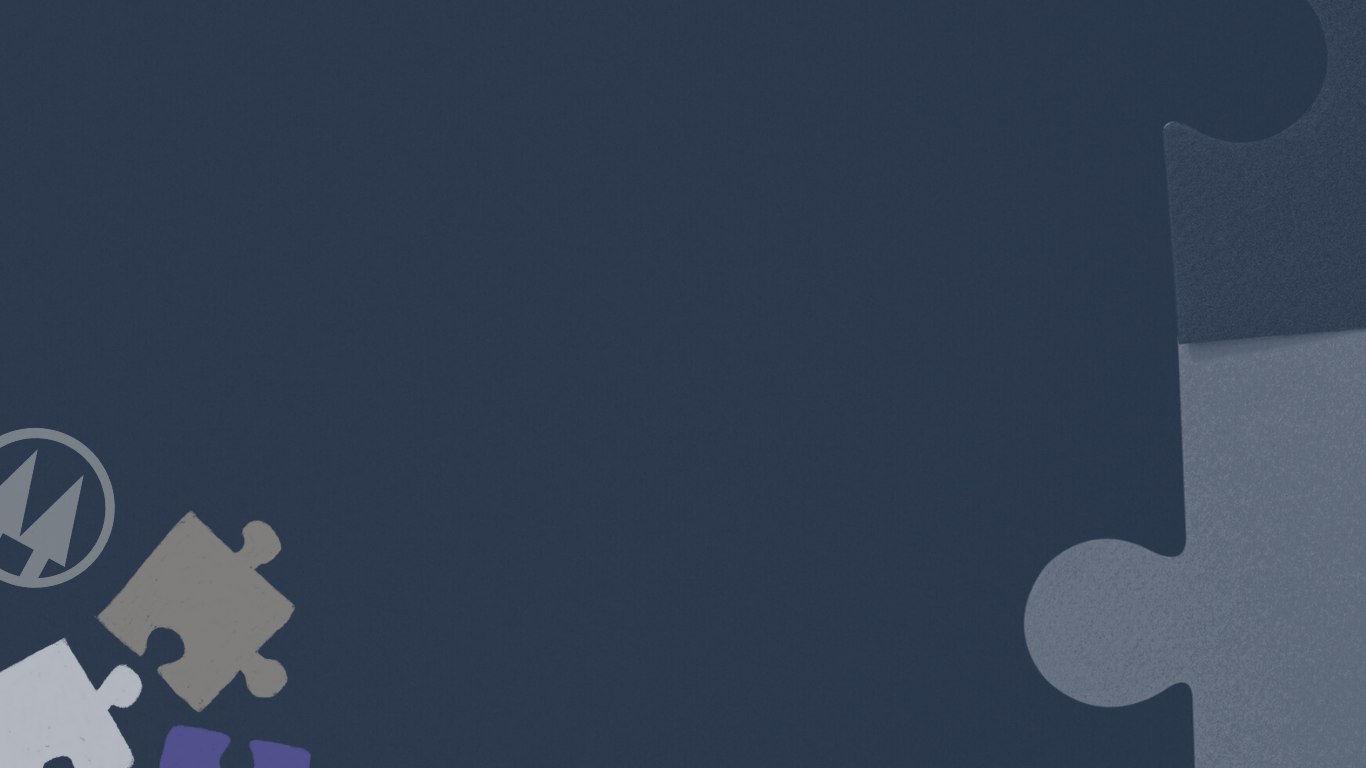
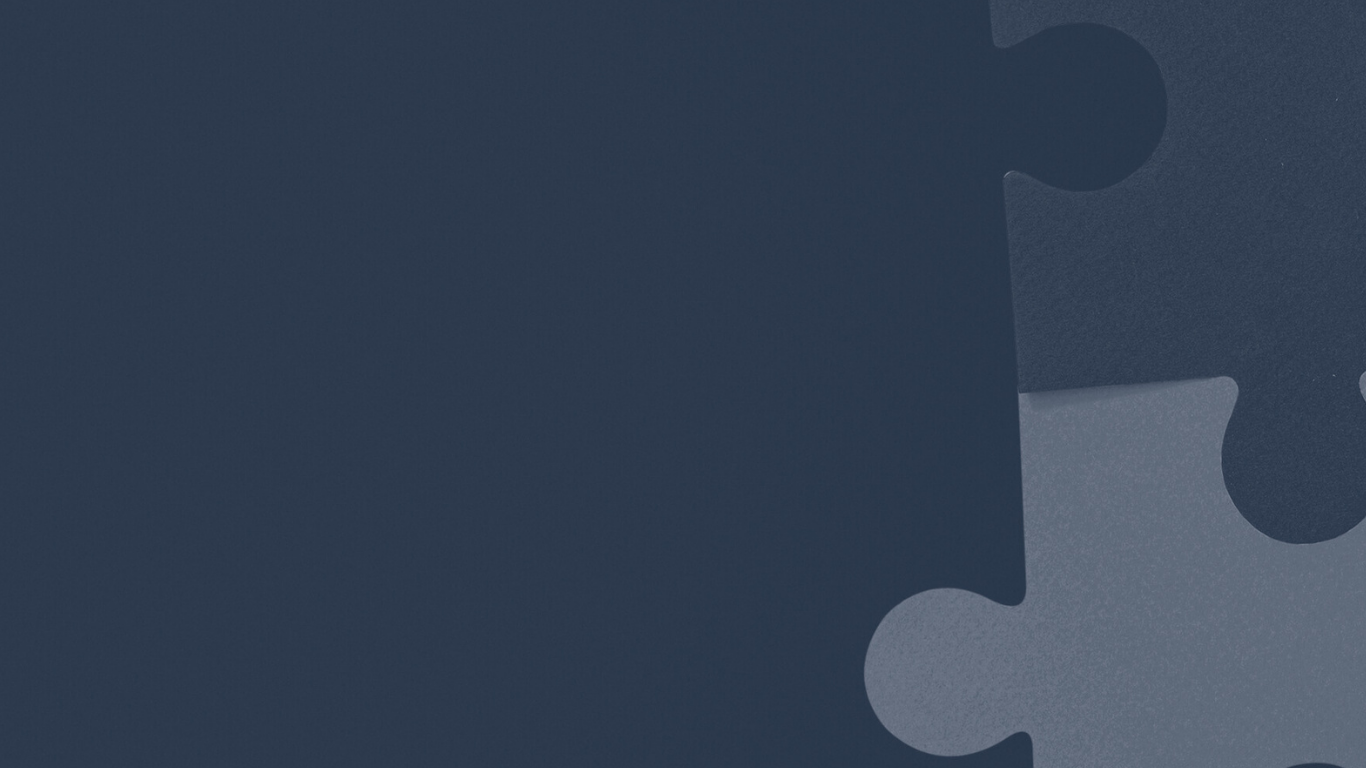
mediaqueries mobile para index

Changed region(s): [[0.6149, 0.4062, 1.0, 1.0], [0.0, 0.5625, 0.246, 1.0], [0.9531, 0.9688, 0.9839, 1.0]]

diff --git a/PaginaPrincipal.html b/PaginaPrincipal.html
@@ -101,10 +101,7 @@
         <div class="texto">
             <h2>INAES</h2>
             <p>
-                Lorem ipsum dolor sit amet, consectetur adipiscing elit. Integer 
-                tristique augue ut mi placerat, in varius libero luctus. Suspendisse 
-                potenti. Morbi ullamcorper purus non magna cursus, nec laoreet nisl 
-                imperdiet.
+                Brindamos asistencia y orientación sobre trámites y normativa cooperativa, garantizando cumplimiento y transparencia en la gestión de tu cooperativa. Acompañamos a tu organización en la correcta presentación de documentación, en la adaptación a cambios legales y en la implementación de buenas prácticas de administración, fortaleciendo su funcionamiento y promoviendo un desarrollo sólido y sostenible.
             </p>
         </div>
     </div>
@@ -114,9 +111,9 @@
         <div class="texto">
             <h2>Normas UIF</h2>
             <p>
-                Lorem ipsum dolor sit amet, consectetur adipiscing elit. Curabitur 
-                ultricies justo vitae lacus interdum, vel sodales nunc hendrerit. 
-                Donec sagittis turpis non elit vehicula, vitae facilisis magna luctus.
+              Asesoramos a tu cooperativa sobre prevención de lavado de dinero y financiamiento del terrorismo, 
+              garantizando que cumpla con la normativa vigente. Te ayudamos a implementar controles internos eficaces y detectar operaciones sospechosas, 
+              fortaleciendo la transparencia y la confianza en la gestión de tu organización.
             </p>
         </div>
     </div>
@@ -126,9 +123,8 @@
         <div class="texto">
             <h2>Ley 20.337</h2>
             <p>
-                Lorem ipsum dolor sit amet, consectetur adipiscing elit. Proin 
-                pharetra nunc ac neque porta, sed bibendum leo cursus. Praesent 
-                euismod orci nec metus congue convallis.
+                Prestamos servicios especializados para cooperativas según la Ley N° 20.337, promoviendo la participación equitativa de los asociados y la distribución justa de excedentes. Asesoramos en la correcta aplicación de la normativa, fortaleciendo la gestión interna y garantizando 
+                transparencia en todas las decisiones de la organización.
             </p>
         </div>
     </div>
@@ -137,7 +133,8 @@
 <div class="contenedor--5 " id="QuienesSomos">
     <div class="banner1">
         <h2><span class="resaltado">¿Quiénes somos?</span></h2>
-        <p><span class="resaltado">Con mas de 20 años de experiencia en el rubro aretra nunc ac neque  ra nuncxercitationem vitae quo quae animi blanditiis amet eveniet vero earum architecto! ra nunc ac neque  porta, sed bibe rumus neque porta, sed bibe rumu neque porta, sed bibe rumu cumus lumus que con mi bogus</p></span>
+        <p><span class="resaltado">  Contamos con más de 20 años de experiencia en cooperativas y mutuales, especializados en derechos de los asociados y en la normativa que regula estas organizaciones. Brindamos asesoramiento integral, acompañando a cooperativas y mutuales en trámites, fiscalización y gestión interna, ofreciendo soluciones confiables que garantizan cumplimiento normativo y
+             fortalecen su funcionamiento.</p></span>
     </div>
 </div>
 

diff --git a/css/styles.css b/css/styles.css
@@ -80,7 +80,65 @@
     
 }
 
+/************************* MEDIA QUERIES ************************/
+@media (max-width: 768px) {
+    .body-index {
+        overflow: hidden; /* opcional, evita scroll */
+    }
 
+    .contenedor {
+        flex-direction: column;
+        height: 100vh; /* altura exacta de la pantalla */
+    }
+
+    .contenedor--left {
+        width: 100%;
+        height: 100vh; /* llenar toda la pantalla */
+        padding: 0; /* elimina padding que suma altura extra */
+        display: flex;
+        flex-direction: column;
+        justify-content: center;
+        align-items: center;
+        text-align: center;
+
+        background: url('../images/imagen\ right\ mobile.png') no-repeat center;
+         background-size: 100% 100%;
+        color: #fff;
+    }
+
+    .contenedor--right {
+        display: none;
+    }
+
+    .contenedor--left h1, 
+    .contenedor--left p,
+    .contenedor--left button {
+        margin: 10px 0; /* márgenes controlados para no exceder altura */
+    }
+
+    .contenedor--left button{
+       
+    padding: 10px 20px;
+    
+    background-color: #2b384b;
+    color: #f5f0e5;
+    font-size: 1rem;
+    cursor: pointer;
+    transition: all 0.3s ease;
+    font-family: "Lora", serif;
+    font-weight: 400;
+    border-radius: 4px;
+    border: 1px solid  #f5f0e5;
+
+        
+    }
+
+    .contenedor button:hover{
+        background-color: #f5f0e5;
+        color: #2b384b;
+
+    }
+}
 
 /* desvanecimiento */ 
 .fade-out {
